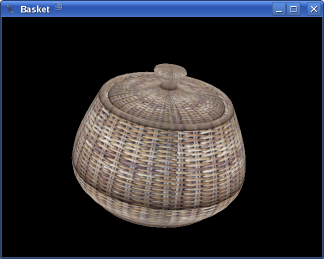
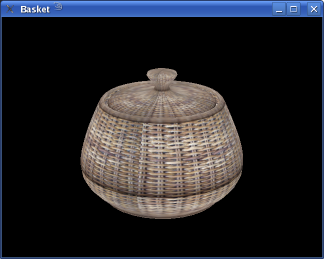
Improve the Basket example documentation.

Changed region(s): [[0.216, 0.2471, 0.7716, 0.8958]]

diff --git a/demos/declarative/basket.qml b/demos/declarative/basket.qml
@@ -1,22 +1,25 @@
+//! [1]
 import Qt 4.7
 import Qt.labs.threed 1.0
 
 Viewport {
     width: 640; height: 480
+
     camera: Camera {
         eye: Qt.vector3d(0, 4, 10)
     }
+//! [1]
 
+//! [2]
     Item3d {
         mesh: Mesh { source: "meshes/basket.bez" }
+        effect: Effect { texture: "textures/basket.jpg" }
+//! [2]
+//! [3]
         transform: [
-            Scale {
-                xScale: 1.5
-                yScale: 1.5
-                zScale: 1.5
-            },
+            Scale3D { scale: 1.5 },
             Rotation3D {
-				id: rotation
+                axis: Qt.vector3d(0, 1, 0)
                 NumberAnimation on angle {
                     running: true
                     loops: Animation.Infinite
@@ -24,12 +27,8 @@ Viewport {
                     to: 360
                     duration: 2000
                 } 
-                axis: Qt.vector3d(0, 1, 0)
             }
         ]
-
-        effect: Effect {
-            texture: "textures/basket.jpg"
-        }
     }
 }
+//! [3]

diff --git a/examples/basket/basketview.cpp b/examples/basket/basketview.cpp
@@ -39,7 +39,7 @@
 **
 ****************************************************************************/
 
-#include <QTimer>
+#include <QPropertyAnimation>
 
 #include "basketview.h"
 #include "basket_data.h"
@@ -48,9 +48,11 @@
 
 BasketView::BasketView(QWidget *parent)
     : QGLView(parent)
+    , m_angle(0)
 {
     setWindowTitle(tr("Basket"));
 
+//! [1]
     QGLBuilder builder;
     builder << BasketPatches();
     basket = builder.finalizedSceneNode();
@@ -62,13 +64,19 @@ BasketView::BasketView(QWidget *parent)
     mat->setTextureUrl(url);
     basket->setMaterial(mat);
     basket->setEffect(QGL::FlatReplaceTexture2D);
-    basket->setScale(QVector3D(1.5f, 1.5f, 1.5f));
+//! [1]
 
-    angle = 0;
+//! [2]
+    QPropertyAnimation *animation;
+    animation = new QPropertyAnimation(this, "angle", this);
+    animation->setStartValue(0.0f);
+    animation->setEndValue(360.0f);
+    animation->setDuration(2000);
+    animation->setLoopCount(-1);
+    animation->start();
+//! [2]
 
-    timer = new QTimer(this);
-    connect(timer, SIGNAL(timeout()), this, SLOT(rotate()));
-    timer->start(10);
+    camera()->setEye(QVector3D(0, 4, 10));
 }
 
 BasketView::~BasketView()
@@ -76,14 +84,11 @@ BasketView::~BasketView()
     delete basket;
 }
 
+//! [3]
 void BasketView::paintGL(QGLPainter *painter)
 {
-    painter->modelViewMatrix().rotate(angle, 0, 1, 0);
+    painter->modelViewMatrix().rotate(angle(), 0, 1, 0);
+    painter->modelViewMatrix().scale(1.5f);
     basket->draw(painter);
 }
-
-void BasketView::rotate()
-{
-    angle = (angle + 5) % 360;
-    update();
-}
+//! [3]

diff --git a/examples/basket/basketview.h b/examples/basket/basketview.h
@@ -44,26 +44,27 @@
 
 #include "qglview.h"
 
-class QTimer;
 class QGLSceneNode;
 
+//! [1]
 class BasketView : public QGLView
 {
     Q_OBJECT
+    Q_PROPERTY(qreal angle READ angle WRITE setAngle)
 public:
+    qreal angle() const { return m_angle; }
+    void setAngle(qreal angle) { m_angle = angle; update(); }
+//! [1]
+
     BasketView(QWidget *parent = 0);
     ~BasketView();
 
 protected:
     void paintGL(QGLPainter *painter);
 
-private slots:
-    void rotate();
-
 private:
     QGLSceneNode *basket;
-    int angle;
-    QTimer *timer;
+    qreal m_angle;
 };
 
 #endif
